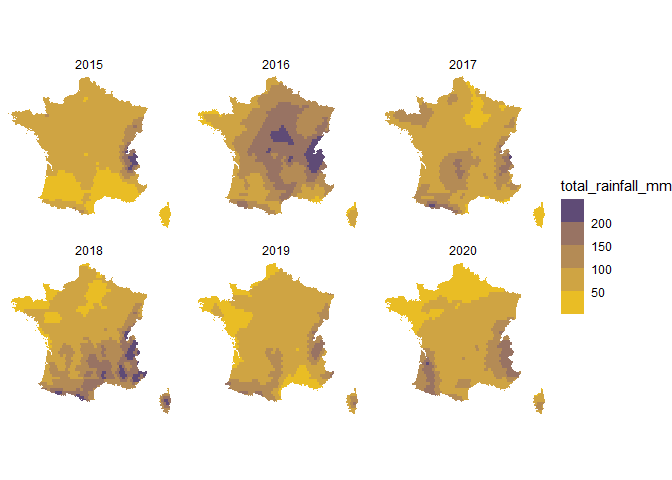
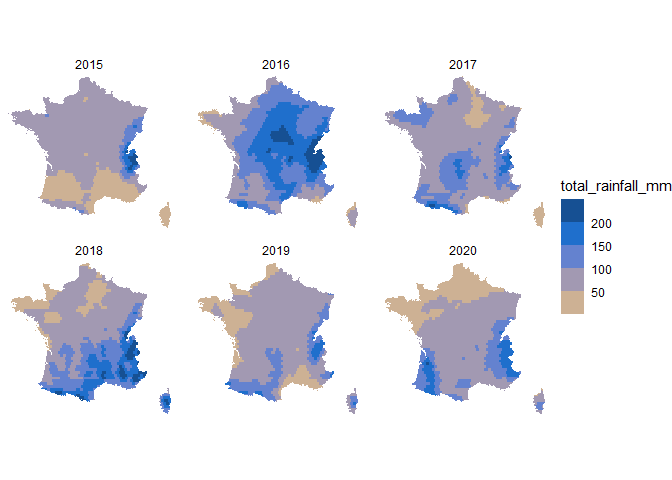
update vignette

diff --git a/README.md b/README.md
@@ -127,9 +127,11 @@ last years available in the dataset:
         aes(fill=total_rainfall_mm),
         color=NA
       )+
-      scale_fill_steps(
-        low = "#f5c900",
-        high = "#183182",
+      scale_fill_steps2(
+        low = "#F8CF6A",
+        mid = "#2178dd",
+        high = "#0F3A6B",
+        midpoint = 150,
         breaks=seq(50,200,50)
       )+
       facet_wrap(.~year)+
